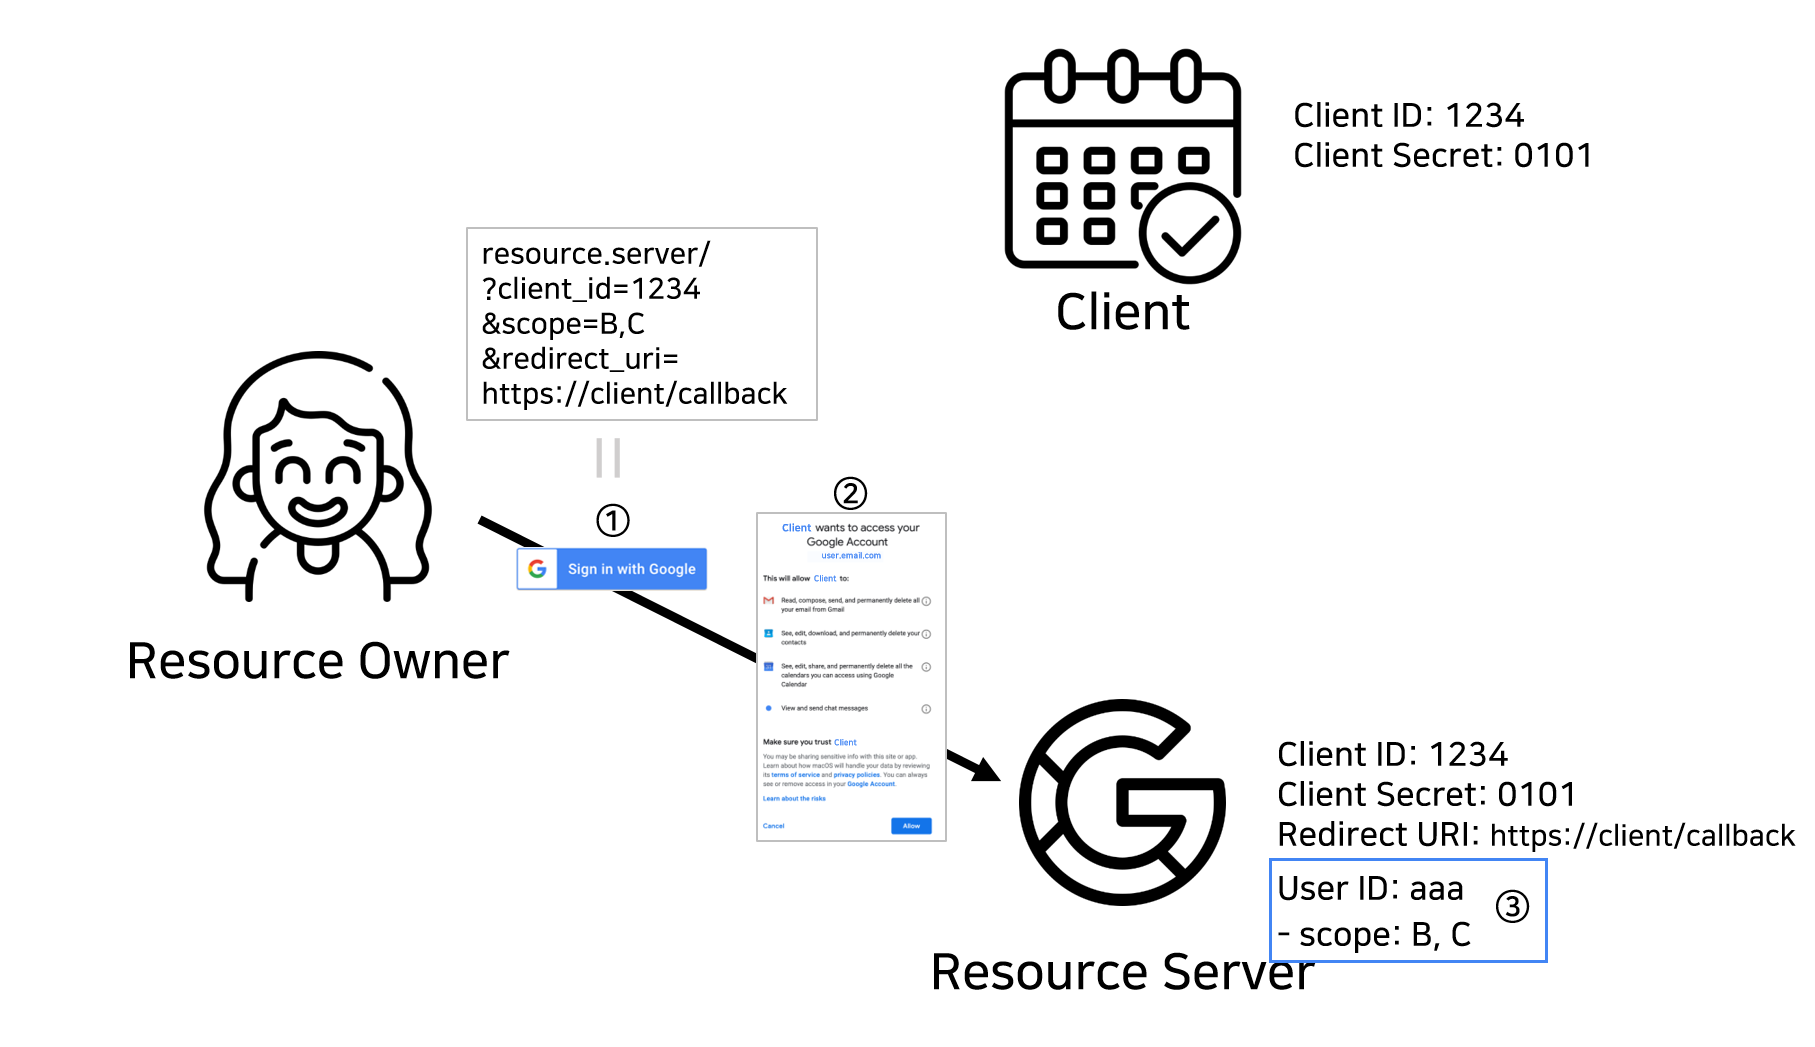
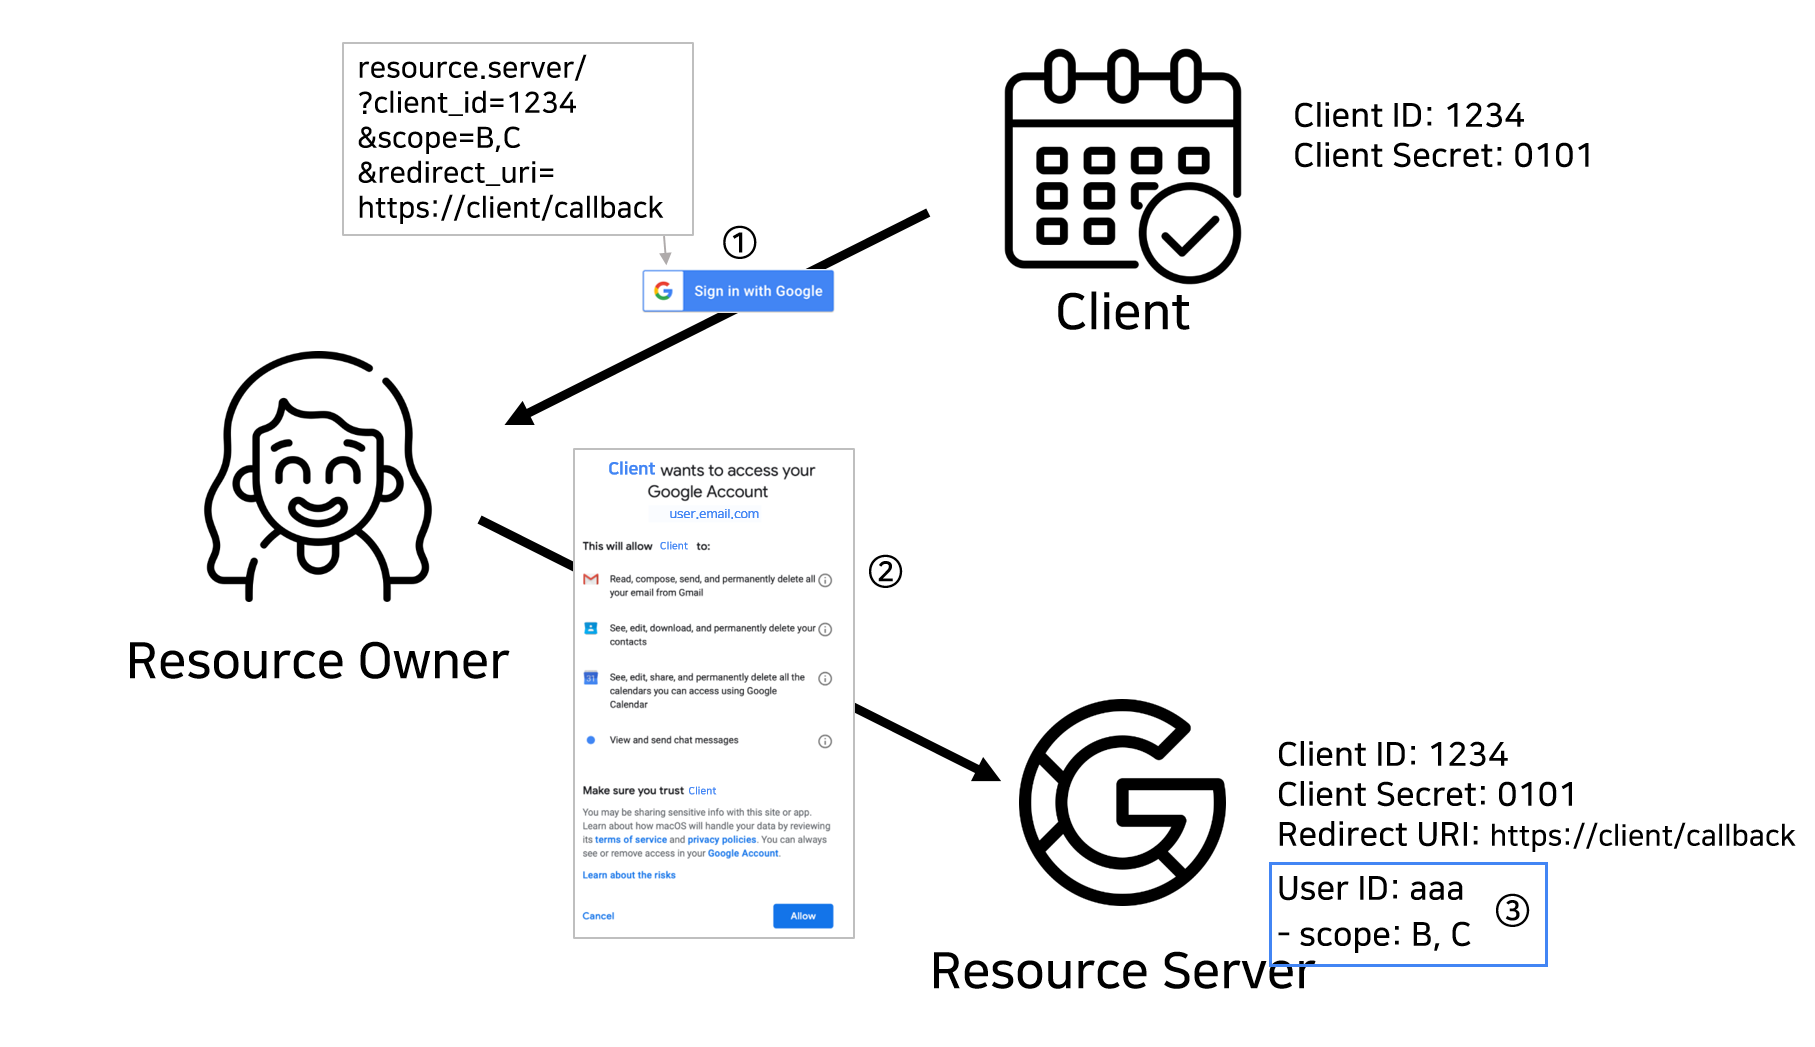
[OAUTH2] basics of oAuth 2.0

diff --git a/SECURITY/oAuth 2.0.md b/SECURITY/oAuth 2.0.md
@@ -53,7 +53,7 @@ OAuth를 위한 절차는 다음과 같다.
 
 
 
-## Application Registration
+## 1) Application Registration
 
 Resource Server에서 OAuth를 통해 회원정보를 받으려면 먼저 Client를 Resource Server에 등록해야한다. "등록"을 해야 `accessToken`을 요청할 권한이 생기기 때문이다. Client에 대한 기본 정보와 서비스의 결과를 전달 받을 `Redirect URI`를 입력하면 `Client ID`와 `Client Secret`을 받게 된다. 
 
@@ -63,9 +63,23 @@ Resource Server에서 OAuth를 통해 회원정보를 받으려면 먼저 Client
 
 
 
-## Resource Owner의 승인
+## 2) Resource Owner의 승인
 
 Resource Server에는 A, B, C, D라는 네 가지 회원정보가 있다고 하자. Client가 B, C라는 정보만 필요하면, 그것들에 대한 요청을 보내면 된다. 따라서 사용자에게 다른 서비스에서 B와 C라는 정보에 대한 권한을 승인하는 절차가 필요하다. 
 
 <img src="img/authenticate.png" alt="그림1" style="zoom:50%;" />
+
+승인 절차
+
+1. 서비스에 로그인하면서 Client에 B와 C에 대한 접근을 허용해달라는 요청을 Resource Owner에게 보낸다
+2. Resource Owner가 해당 요청을 승인한다
+3. Resource Server에 Client에 등록된 Resource Owner의 정보와 허용 범위를 기록한다
+
+
+
+## 3) Resource Server의 승인
+
+<img src="img/resource_server.png" alt="그림1" style="zoom:50%;" />
+
+Resource Owner가 특정 권한에 대한 승인을 허용하면, Resource Server는 사용자의 브라우저에게 redirect uri로 `authorization code`와 함께 이동하라고 한다.
 
